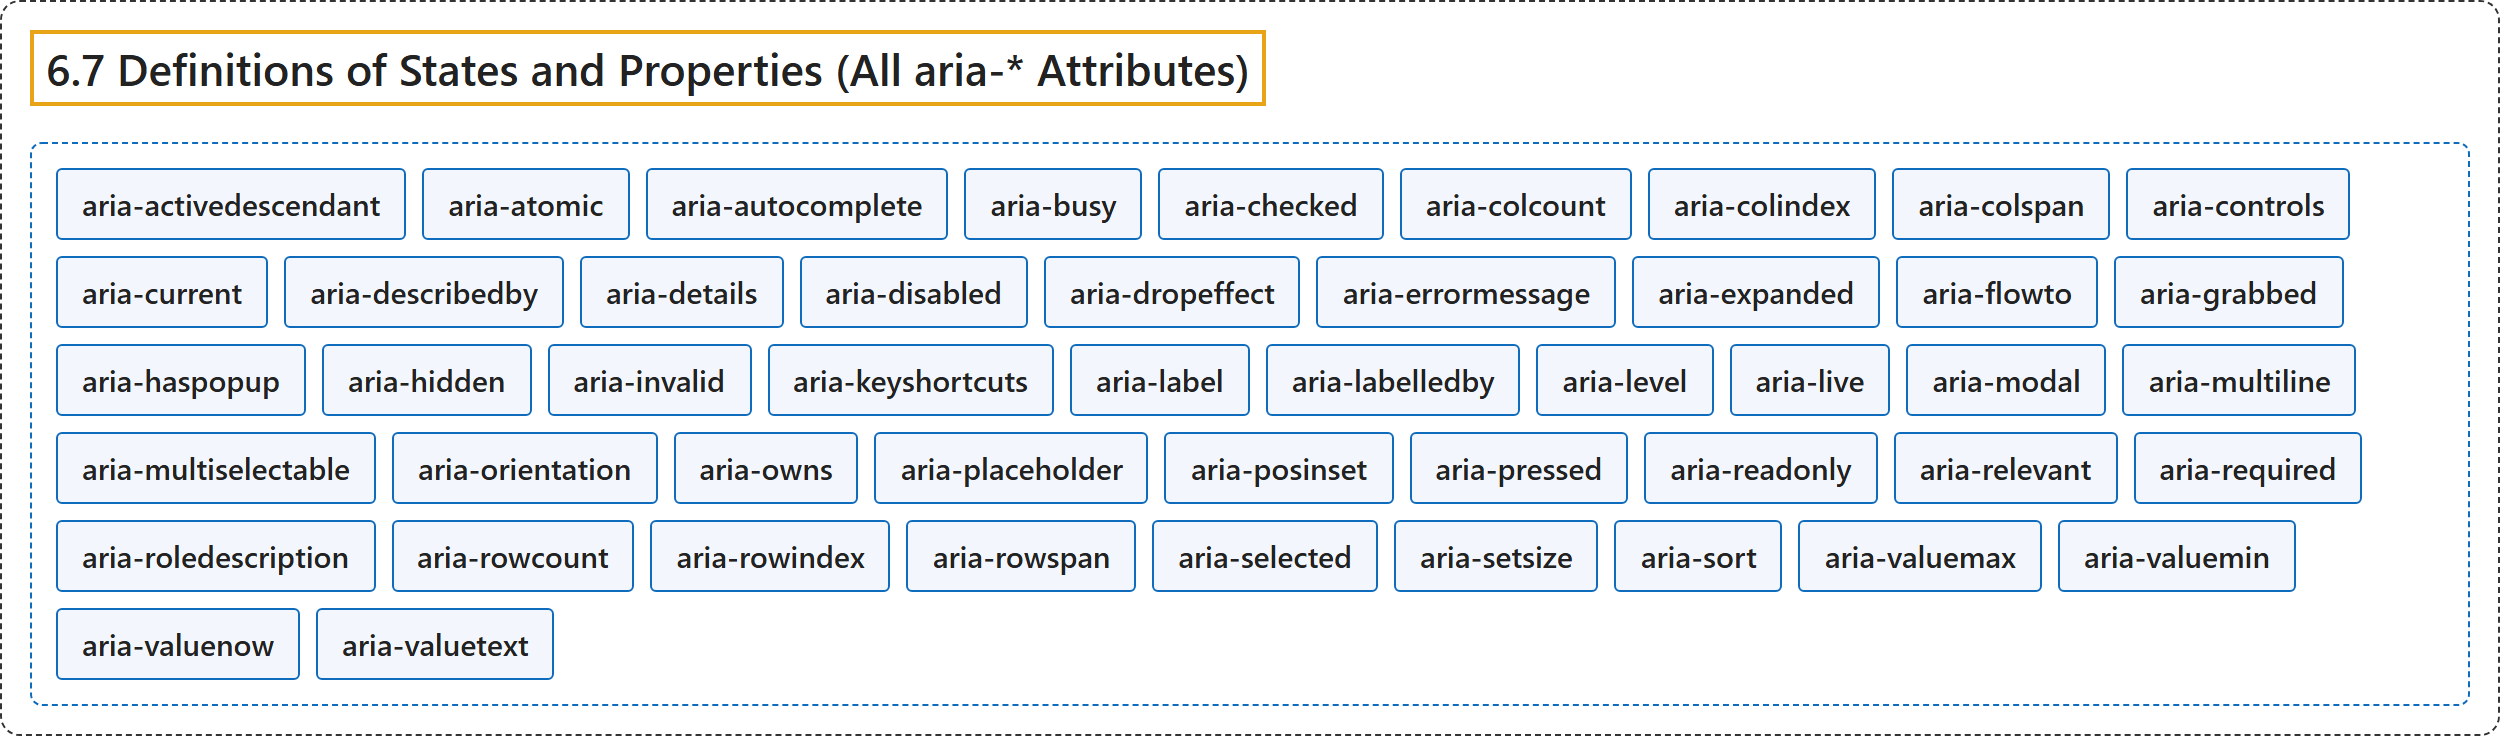
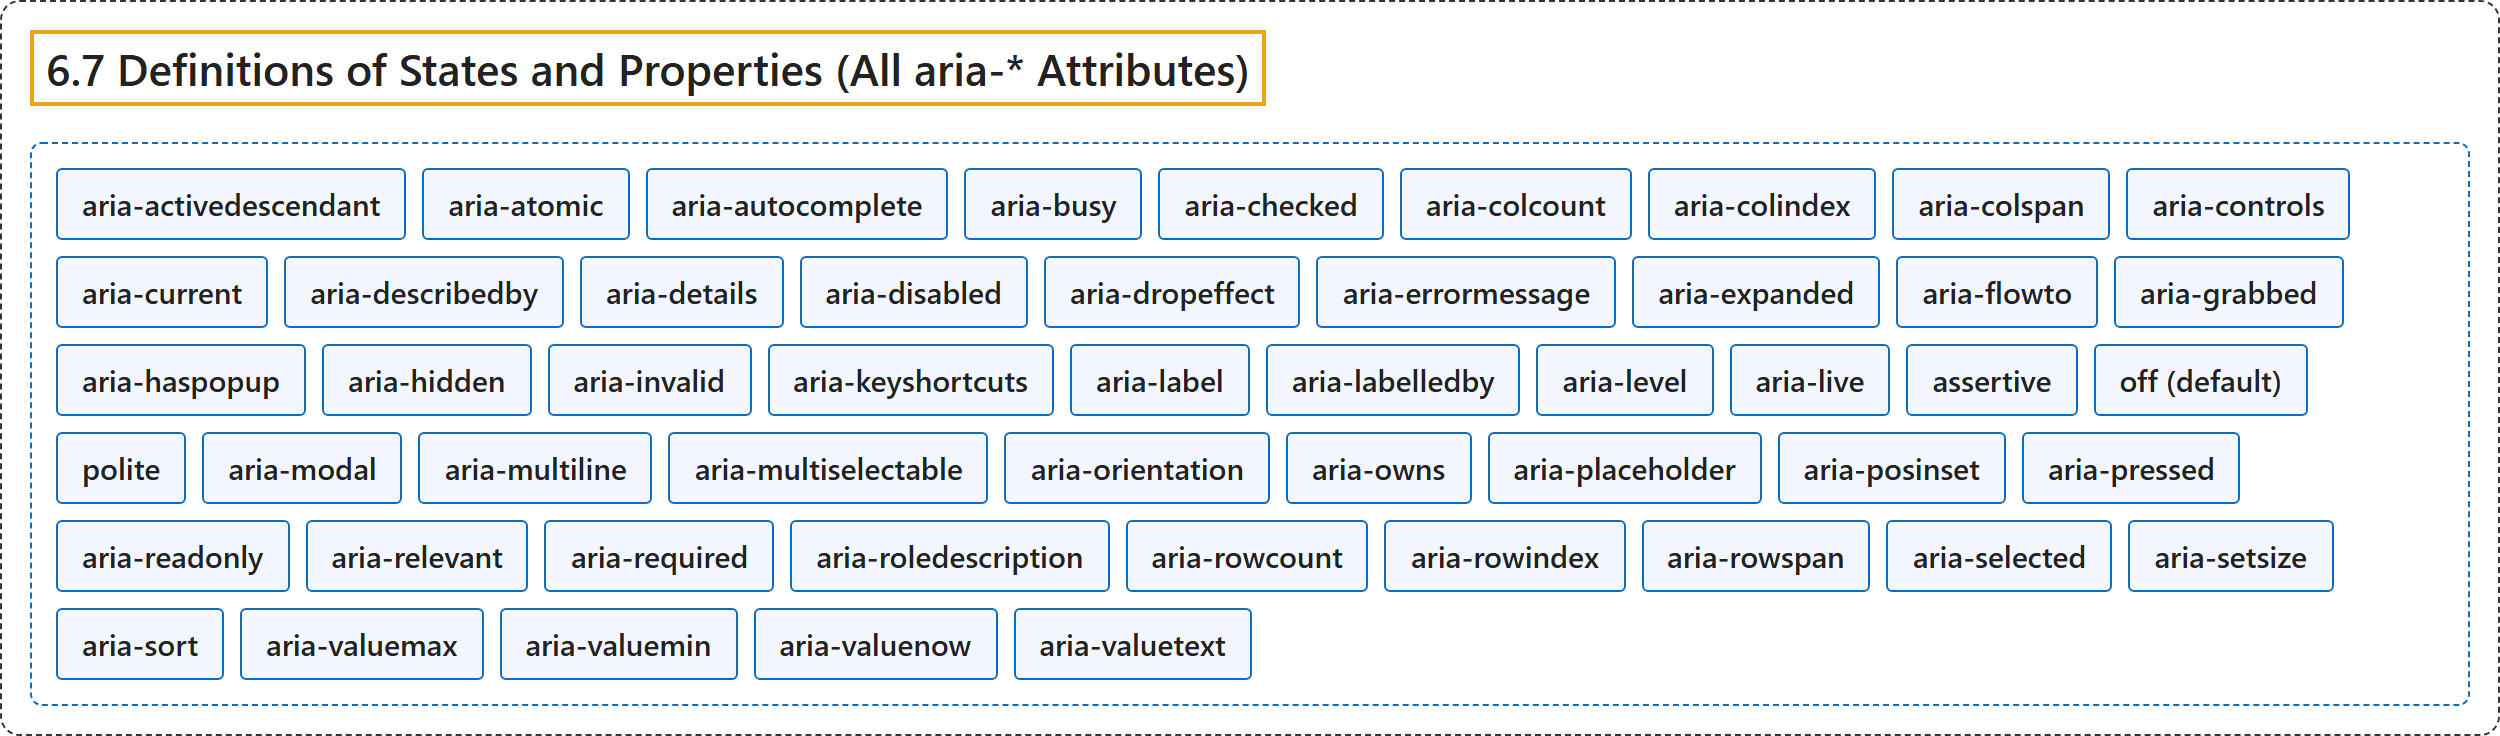
feat(ui-ux): Using ARIA entry with the first rule; aria-live values on 6.7; CST8914 W9 map on Courses

diff --git a/figures/ui-ux/wai-aria/supported-states-and-properties/supported-states-and-properties.html b/figures/ui-ux/wai-aria/supported-states-and-properties/supported-states-and-properties.html
@@ -108,6 +108,9 @@
         <div class="item">aria-labelledby</div>
         <div class="item">aria-level</div>
         <div class="item">aria-live</div>
+        <div class="item">assertive</div>
+        <div class="item">off (default)</div>
+        <div class="item">polite</div>
         <div class="item">aria-modal</div>
         <div class="item">aria-multiline</div>
         <div class="item">aria-multiselectable</div>

diff --git a/figures/ui-ux/wai-aria/supported-states-and-properties/definitions-of-states-and-properties-all-aria-attributes.html b/figures/ui-ux/wai-aria/supported-states-and-properties/definitions-of-states-and-properties-all-aria-attributes.html
@@ -50,6 +50,9 @@
         <div class="item">aria-labelledby</div>
         <div class="item">aria-level</div>
         <div class="item">aria-live</div>
+        <div class="item">assertive</div>
+        <div class="item">off (default)</div>
+        <div class="item">polite</div>
         <div class="item">aria-modal</div>
         <div class="item">aria-multiline</div>
         <div class="item">aria-multiselectable</div>

diff --git a/docs/ui-ux/wai-aria/supported-states-and-properties/definitions-of-states-and-properties-all-aria-attributes.md b/docs/ui-ux/wai-aria/supported-states-and-properties/definitions-of-states-and-properties-all-aria-attributes.md
@@ -1,6 +1,6 @@
 ---
 title: "6.7 Definitions of States and Properties (All aria-* Attributes)"
-description: "WAI-ARIA 1.2, 6.7 Definitions of States and Properties (All aria-* Attributes): aria-activedescendant, aria-atomic, aria-autocomplete, aria-busy, aria-checked, aria-colcount, aria-colindex, aria-colspan, aria-controls, aria-current, aria-describedby, aria-details, aria-disabled, aria-dropeffect, aria-errormessage, aria-expanded, aria-flowto, aria-grabbed, aria-haspopup, aria-hidden, aria-invalid, aria-keyshortcuts, aria-label, aria-labelledby, aria-level, aria-live, aria-modal, aria-multiline, aria-multiselectable, aria-orientation, aria-owns, aria-placeholder, aria-posinset, aria-pressed, aria-readonly, aria-relevant, aria-required, aria-roledescription, aria-rowcount, aria-rowindex, aria-rowspan, aria-selected, aria-setsize, aria-sort, aria-valuemax, aria-valuemin, aria-valuenow, aria-valuetext."
+description: "WAI-ARIA 1.2, 6.7 Definitions of States and Properties (All aria-* Attributes): aria-activedescendant, aria-atomic, aria-autocomplete, aria-busy, aria-checked, aria-colcount, aria-colindex, aria-colspan, aria-controls, aria-current, aria-describedby, aria-details, aria-disabled, aria-dropeffect, aria-errormessage, aria-expanded, aria-flowto, aria-grabbed, aria-haspopup, aria-hidden, aria-invalid, aria-keyshortcuts, aria-label, aria-labelledby, aria-level, aria-live, assertive, off (default), polite, aria-modal, aria-multiline, aria-multiselectable, aria-orientation, aria-owns, aria-placeholder, aria-posinset, aria-pressed, aria-readonly, aria-relevant, aria-required, aria-roledescription, aria-rowcount, aria-rowindex, aria-rowspan, aria-selected, aria-setsize, aria-sort, aria-valuemax, aria-valuemin, aria-valuenow, aria-valuetext."
 ms.date: 2026-11-03
 ---
 
@@ -8,7 +8,7 @@ ms.date: 2026-11-03
 
 ## Classification
 
-![6.7 Definitions of States and Properties (All aria-* Attributes): aria-activedescendant, aria-atomic, aria-autocomplete, aria-busy, aria-checked, aria-colcount, aria-colindex, aria-colspan, aria-controls, aria-current, aria-describedby, aria-details, aria-disabled, aria-dropeffect, aria-errormessage, aria-expanded, aria-flowto, aria-grabbed, aria-haspopup, aria-hidden, aria-invalid, aria-keyshortcuts, aria-label, aria-labelledby, aria-level, aria-live, aria-modal, aria-multiline, aria-multiselectable, aria-orientation, aria-owns, aria-placeholder, aria-posinset, aria-pressed, aria-readonly, aria-relevant, aria-required, aria-roledescription, aria-rowcount, aria-rowindex, aria-rowspan, aria-selected, aria-setsize, aria-sort, aria-valuemax, aria-valuemin, aria-valuenow, aria-valuetext.](media/definitions-of-states-and-properties-all-aria-attributes.png)
+![6.7 Definitions of States and Properties (All aria-* Attributes): aria-activedescendant, aria-atomic, aria-autocomplete, aria-busy, aria-checked, aria-colcount, aria-colindex, aria-colspan, aria-controls, aria-current, aria-describedby, aria-details, aria-disabled, aria-dropeffect, aria-errormessage, aria-expanded, aria-flowto, aria-grabbed, aria-haspopup, aria-hidden, aria-invalid, aria-keyshortcuts, aria-label, aria-labelledby, aria-level, aria-live, assertive, off (default), polite, aria-modal, aria-multiline, aria-multiselectable, aria-orientation, aria-owns, aria-placeholder, aria-posinset, aria-pressed, aria-readonly, aria-relevant, aria-required, aria-roledescription, aria-rowcount, aria-rowindex, aria-rowspan, aria-selected, aria-setsize, aria-sort, aria-valuemax, aria-valuemin, aria-valuenow, aria-valuetext.](media/definitions-of-states-and-properties-all-aria-attributes.png)
 
 ## Glossary
 
@@ -41,6 +41,9 @@ ms.date: 2026-11-03
 | **aria-labelledby**<br>标签来源 | "Identifies the element (or elements) that **labels the current element**." | 标识**标注当前元素**的元素。 | [World Wide Web Consortium, 2023, section 6.7, aria-labelledby](https://www.w3.org/TR/wai-aria-1.2/#aria-labelledby) |
 | **aria-level**<br>层级 | "Defines the **hierarchical level of an element within a structure**." | 定义**元素在结构中的层级**。 | [World Wide Web Consortium, 2023, section 6.7, aria-level](https://www.w3.org/TR/wai-aria-1.2/#aria-level) |
 | **aria-live**<br>实时 | "Indicates that an element **will be updated**, and describes the **types of updates** the user agents, assistive technologies, and user can expect from the live region." | 指示元素**将会更新**，并描述用户代理、辅助技术和用户可以从该实时区域预期的**更新类型**。 | [World Wide Web Consortium, 2023, section 6.7, aria-live](https://www.w3.org/TR/wai-aria-1.2/#aria-live) |
+| **assertive**<br>紧急 | "Indicates that updates to the region have the **highest priority** and should be **presented the user immediately**." | 指示该区域的更新具有**最高优先级**，应当**立即呈现给用户**。 | [World Wide Web Consortium, 2023, section 6.7, aria-live, Values](https://www.w3.org/TR/wai-aria-1.2/#aria-live) |
+| **off (default)**<br>关闭（默认） | "Indicates that updates to the region should **not be presented to the user** unless the user is **currently focused on that region**." | 指示该区域的更新**不应呈现给用户**，除非用户**当前正聚焦在该区域上**。 | [World Wide Web Consortium, 2023, section 6.7, aria-live, Values](https://www.w3.org/TR/wai-aria-1.2/#aria-live) |
+| **polite**<br>礼貌 | "Indicates that updates to the region should be presented at the **next graceful opportunity**, such as at the **end of speaking the current sentence** or **when the user pauses typing**." | 指示该区域的更新应当在**下一个合适的时机**呈现，例如**说完当前句子时**或**用户暂停输入时**。 | [World Wide Web Consortium, 2023, section 6.7, aria-live, Values](https://www.w3.org/TR/wai-aria-1.2/#aria-live) |
 | **aria-modal**<br>模态 | "Indicates whether an element is **modal when displayed**." | 指示元素在**显示时是否为模态**。 | [World Wide Web Consortium, 2023, section 6.7, aria-modal](https://www.w3.org/TR/wai-aria-1.2/#aria-modal) |
 | **aria-multiline**<br>多行 | "Indicates whether a text box accepts **multiple lines of input or only a single line**." | 指示文本框接受**多行输入还是只接受单行**。 | [World Wide Web Consortium, 2023, section 6.7, aria-multiline](https://www.w3.org/TR/wai-aria-1.2/#aria-multiline) |
 | **aria-multiselectable**<br>可多选 | "Indicates that the user may **select more than one item** from the current selectable descendants." | 指示用户可以从当前可选的后代中**选择多于一项**。 | [World Wide Web Consortium, 2023, section 6.7, aria-multiselectable](https://www.w3.org/TR/wai-aria-1.2/#aria-multiselectable) |

diff --git a/docs/courses/index.md b/docs/courses/index.md
@@ -1,6 +1,6 @@
 ---
 title: Courses
-description: "Courses (temporary, until graduation): CST8913 Cloud Migration, the week concepts with my lab scenarios as keyword tables for the oral exam."
+description: "Courses (temporary, until graduation): CST8913 Cloud Migration, the week concepts with my lab scenarios as keyword tables for the oral exam. CST8914 Accessible by Design, the week topics mapped to the pages of the field."
 ms.date: 2026-11-01
 ---
 
@@ -699,3 +699,13 @@ ms.date: 2026-11-01
 | 28 | A file storage service for storing and sharing files with users, typically used in shared file systems across applications. | **Amazon EFS** | **Azure Files** | **Filestore** |
 | 29 | A service that helps you transcode, process, and stream media content such as video and audio. | **AWS Elemental MediaConvert** | No first-party service (Azure Media Services retired in 2024; partner solutions) | **Transcoder API** |
 | 30 | A real-time communication service used for sending notifications, emails, and text messages to users and devices. | **Amazon SNS (email: Amazon SES)** | **Azure Notification Hubs, Azure Communication Services** | **Firebase Cloud Messaging (push only)** |
+
+## CST8914 Accessible by Design
+
+### W9: Understanding WAI-ARIA
+
+| Keyword | Description | 中文翻译 |
+|---|---|---|
+| **[4.1 WAI-ARIA Roles](../ui-ux/wai-aria/using-wai-aria/wai-aria-roles.md)** | W9 teaches **roles** under **static ARIA**, a group name used by the lecture and not by the specification. | W9 把**角色**放在**静态 ARIA** 下，这个分组名称来自课程，不来自规范。 |
+| **[4.2 WAI-ARIA States and Properties](../ui-ux/wai-aria/using-wai-aria/wai-aria-states-and-properties.md)** | W9 teaches **properties** under static ARIA and **states** under **dynamic ARIA**. | W9 把**属性**放在静态 ARIA 下，把**状态**放在**动态 ARIA** 下。 |
+| **[6.6.2 Live Region Attributes](../ui-ux/wai-aria/supported-states-and-properties/taxonomy-of-wai-aria-states-and-properties/live-region-attributes.md)** | W9 teaches **live regions** under **dynamic ARIA**. | W9 把**实时区域**放在**动态 ARIA** 下。 |

diff --git a/docs/ui-ux/using-aria/notes-on-aria-use-in-html.md b/docs/ui-ux/using-aria/notes-on-aria-use-in-html.md
@@ -1,0 +1,20 @@
+---
+title: "2. Notes on ARIA Use in HTML"
+description: "Using ARIA, 2. Notes on ARIA Use in HTML: the first, second, third and fourth rules of ARIA use."
+ms.date: 2026-11-09
+---
+
+# 2. Notes on ARIA Use in HTML
+
+## Glossary
+
+| Term | Definition | 中文翻译 | Source |
+|---|---|---|---|
+| **2.1 First Rule of ARIA Use**<br>ARIA 使用第一规则 | "If you can use a **native HTML element** [HTML] or attribute with the **semantics and behavior you require already built in**, instead of **re-purposing an element** and adding an ARIA role, state or property to make it accessible, then do so." | 如果你可以使用**原生 HTML 元素** [HTML] 或属性，并且它**已经内置了你需要的语义和行为**，那么不要**改造某个元素**再添加 ARIA 角色、状态或属性来使其无障碍，而应直接使用它。 | [World Wide Web Consortium, 2026, section 2.1](https://www.w3.org/TR/using-aria/#:~:text=If%20you%20can%20use%20a%20native%20HTML%20element) |
+| **2.2 Second Rule of ARIA Use**<br>ARIA 使用第二规则 | (Definition pending) | （定义待补） | [World Wide Web Consortium, 2026, section 2.2](https://www.w3.org/TR/using-aria/#:~:text=Second%20Rule%20of%20ARIA%20Use) |
+| **2.3 Third Rule of ARIA Use**<br>ARIA 使用第三规则 | (Definition pending) | （定义待补） | [World Wide Web Consortium, 2026, section 2.3](https://www.w3.org/TR/using-aria/#:~:text=Third%20Rule%20of%20ARIA%20Use) |
+| **2.4 Fourth Rule of ARIA Use**<br>ARIA 使用第四规则 | (Definition pending) | （定义待补） | [World Wide Web Consortium, 2026, section 2.4](https://www.w3.org/TR/using-aria/#:~:text=Fourth%20Rule%20of%20ARIA%20Use) |
+
+## References
+
+World Wide Web Consortium. (2026, February 24). *Using ARIA* (W3C Discontinued Draft). <https://www.w3.org/TR/using-aria/>

diff --git a/docs/ui-ux/using-aria/index.md b/docs/ui-ux/using-aria/index.md
@@ -1,0 +1,18 @@
+---
+title: Using ARIA
+description: "Using ARIA, a W3C Discontinued Draft: 2. Notes on ARIA Use in HTML."
+ms.date: 2026-11-09
+---
+
+# Using ARIA
+
+## Glossary
+
+| Term | Definition | 中文翻译 | Source |
+|---|---|---|---|
+| **Using ARIA**<br>使用 ARIA | "This document is a **practical guide for developers** on how to **add accessibility information to HTML elements** using the Accessible Rich Internet Applications (WAI-ARIA) 1.2 specification, which defines a way to make Web content and Web applications more accessible to people with disabilities." | 本文档是一份**面向开发者的实用指南**，说明如何使用 Accessible Rich Internet Applications（WAI-ARIA）1.2 规范**为 HTML 元素添加无障碍信息**，该规范定义了一种让网页内容和网页应用对残障人士更无障碍的方式。 | [World Wide Web Consortium, 2026, section 1](https://www.w3.org/TR/using-aria/#:~:text=This%20document%20is%20a%20practical%20guide) |
+| **[2. Notes on ARIA Use in HTML](notes-on-aria-use-in-html.md)**<br>在 HTML 中使用 ARIA 的说明 | (No definition) | （无定义） | [World Wide Web Consortium, 2026, section 2](https://www.w3.org/TR/using-aria/#:~:text=Notes%20on%20ARIA%20Use%20in%20HTML) |
+
+## References
+
+World Wide Web Consortium. (2026, February 24). *Using ARIA* (W3C Discontinued Draft). <https://www.w3.org/TR/using-aria/>

diff --git a/docs/ui-ux/using-aria/README.md b/docs/ui-ux/using-aria/README.md
@@ -1,0 +1,14 @@
+# Using ARIA: plan
+
+Not published (`docfx.json` excludes `**/README.md`). Source: Using ARIA, W3C Discontinued Draft, 24 February 2026 (https://www.w3.org/TR/using-aria/), cached 2026-11-02 as `references/official-docs/cache/md/w3-tr-using-aria.md`.
+
+License: the page states "W3C liability, trademark and permissive document license rules apply", so definitions are quoted word for word.
+
+Status (2026-11-09): skeleton, no figures yet. Only 2.1 is written; 2.2 to 2.4 wait for a request. The source says it is inappropriate to cite this document as other than abandoned work, so every reference names it a Discontinued Draft.
+
+| # | Part of the source | Holds terms | Page |
+|---|---|---|---|
+| 1 | Abstract, Status of This Document | No | - |
+| 2 | 1. Introduction | Entry row only | `index.md` |
+| 3 | 2. Notes on ARIA Use in HTML (2.1 to 2.4) | Yes | `notes-on-aria-use-in-html.md` |
+| 4 | 3. Conformance, A. References | No | - |
